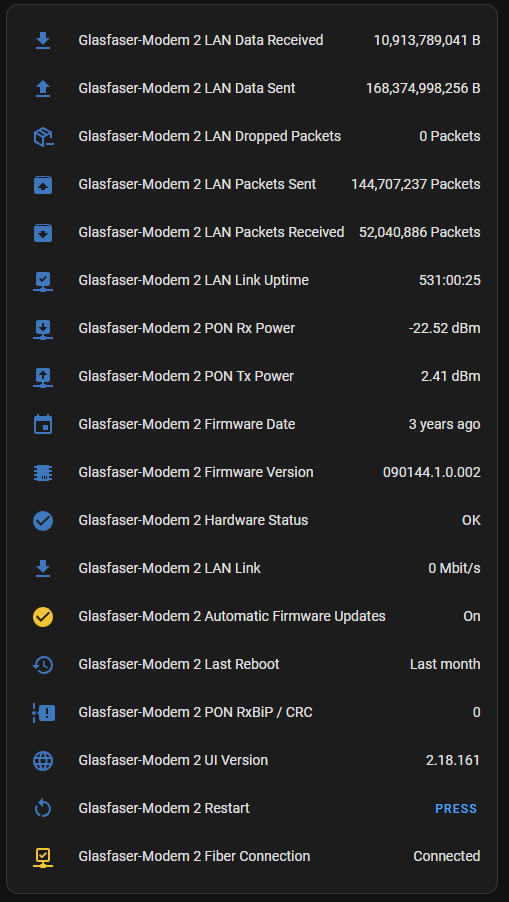
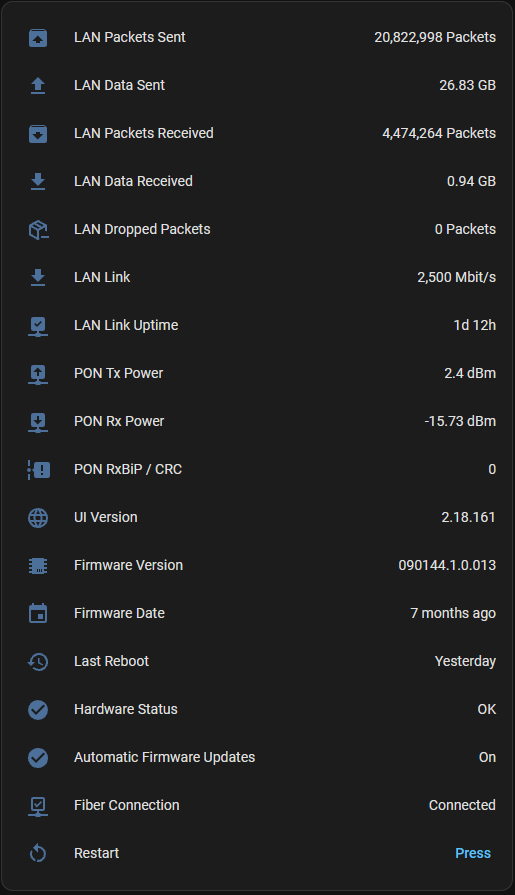
Set link speed display precision to zero (#141)

diff --git a/custom_components/gfm2/sensor.py b/custom_components/gfm2/sensor.py
@@ -78,6 +78,8 @@ ENTITY_DESCRIPTIONS = (
         device_class=SensorDeviceClass.DATA_RATE,
         state_class=SensorStateClass.MEASUREMENT,
         native_unit_of_measurement=UnitOfDataRate.MEGABITS_PER_SECOND,
+        # link speed needs no decimal places
+        suggested_display_precision=0,
     ),
     SensorEntityDescription(
         key="status_stability",
